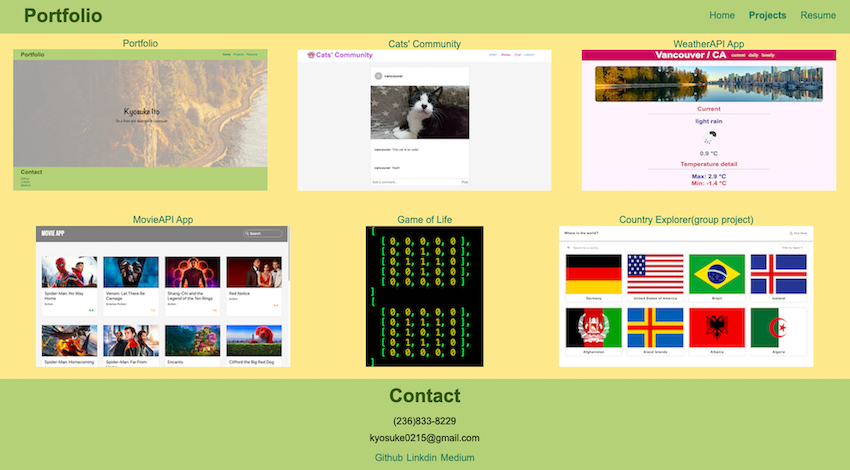
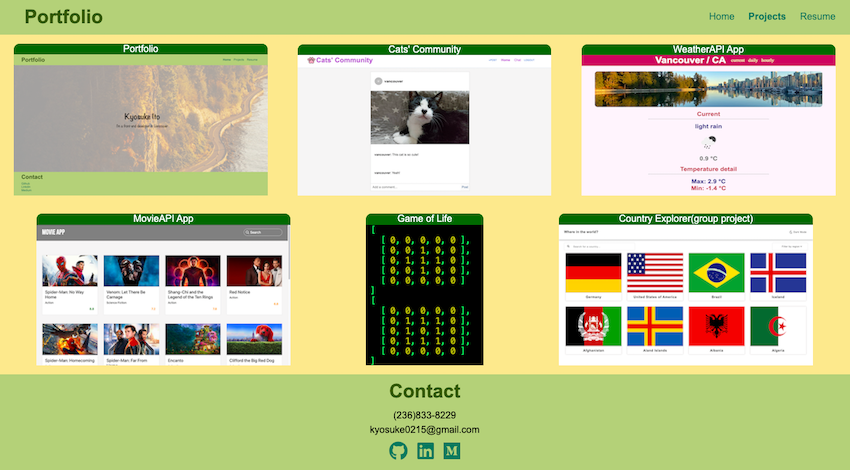
add media query

diff --git a/src/components/project/ProjectDetail.js b/src/components/project/ProjectDetail.js
@@ -46,18 +46,21 @@ const ProjectDetail = ({ data }) => {
                   <img
                     src={`${baseImgPath}${list.imgDetailPathA}`}
                     alt="Project"
+                    className="slide-image"
                   />
                 </SwiperSlide>
                 <SwiperSlide>
                   <img
                     src={`${baseImgPath}${list.imgDetailPathB}`}
                     alt="Project"
+                    className="slide-image"
                   />
                 </SwiperSlide>
                 <SwiperSlide>
                   <img
                     src={`${baseImgPath}${list.imgDetailPathC}`}
                     alt="Project"
+                    className="slide-image"
                   />
                 </SwiperSlide>
               </Swiper>

diff --git a/src/styles/components/projects/_project-detail.scss b/src/styles/components/projects/_project-detail.scss
@@ -36,6 +36,32 @@
   }
 }
 
+@media (max-width: 45rem) {
+  .slide-image {
+    width: 90%;
+    height: 90%;
+  }
+  .projectDetail__wrapper {
+    padding: 8rem 0;
+    h1 {
+      font-size: 4rem;
+    }
+    h2 {
+      font-size: 3rem;
+    }
+    h3 {
+      font-size: 2rem;
+    }
+    p,
+    a {
+      font-size: 2rem;
+    }
+    p {
+      margin-bottom: 0;
+    }
+  }
+}
+
 .detailLink__wrapper {
   display: flex;
   justify-content: center;

diff --git a/src/styles/components/_header.scss b/src/styles/components/_header.scss
@@ -31,3 +31,21 @@ a {
 .resume-link {
   margin: 0 0 0 7%;
 }
+
+@media (max-width: 45rem) {
+  .header-links {
+    padding: 0;
+    margin: 0 2rem;
+  }
+  .home-link {
+    margin: 0;
+    padding-right: 7%;
+  }
+  .project-link {
+    margin: 0;
+    padding-right: 7%;
+  }
+  .resume-link {
+    margin: 0;
+  }
+}

diff --git a/src/styles/components/projects/_project-item.scss b/src/styles/components/projects/_project-item.scss
@@ -28,3 +28,12 @@
     z-index: 10;
   }
 }
+
+@media (max-width: 45rem) {
+  .project-link__wrapper {
+  }
+  img {
+    width: 100%;
+    margin: 0;
+  }
+}
